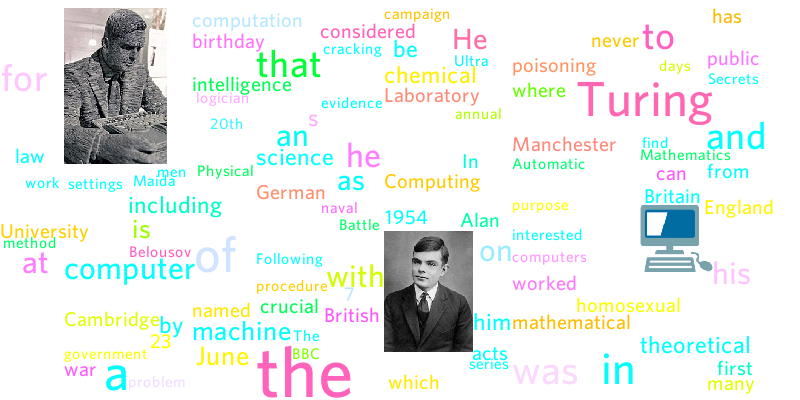
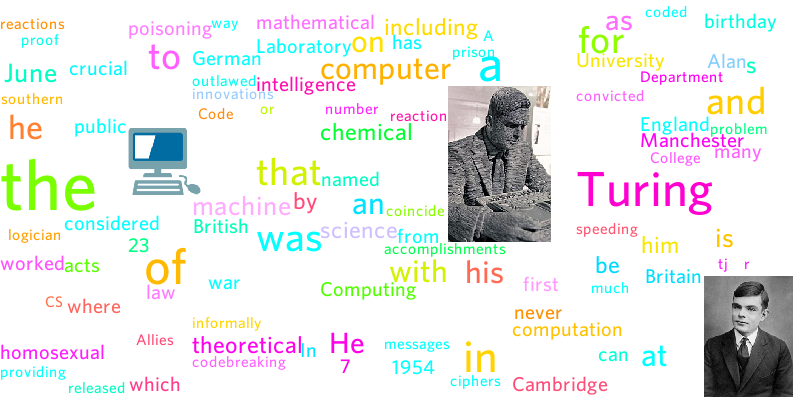
trying to fix syntax highlighting in crates.io readme + more light theme friendly image

diff --git a/src/builder.rs b/src/builder.rs
@@ -42,7 +42,7 @@ impl Builder {
         Self {
             dim: (800, 400),
             font, 
-            colors: ColorScheme::Rainbow {luminance: 100., chroma: 128.}.into()
+            colors: ColorScheme::Rainbow {luminance: 90., chroma: 128.}.into()
         }
     }
 

diff --git a/README.md b/README.md
@@ -1,9 +1,9 @@
 # wordcloud-rs
-Rust library to generate word cloud images from text and images !
+A Rust library to generate word-clouds from text and images!
 
 ## Example 
 ### Code
-```rs
+```rust
 use std::collections::HashMap;
 use std::fs;
 use lazy_static::lazy_static;
